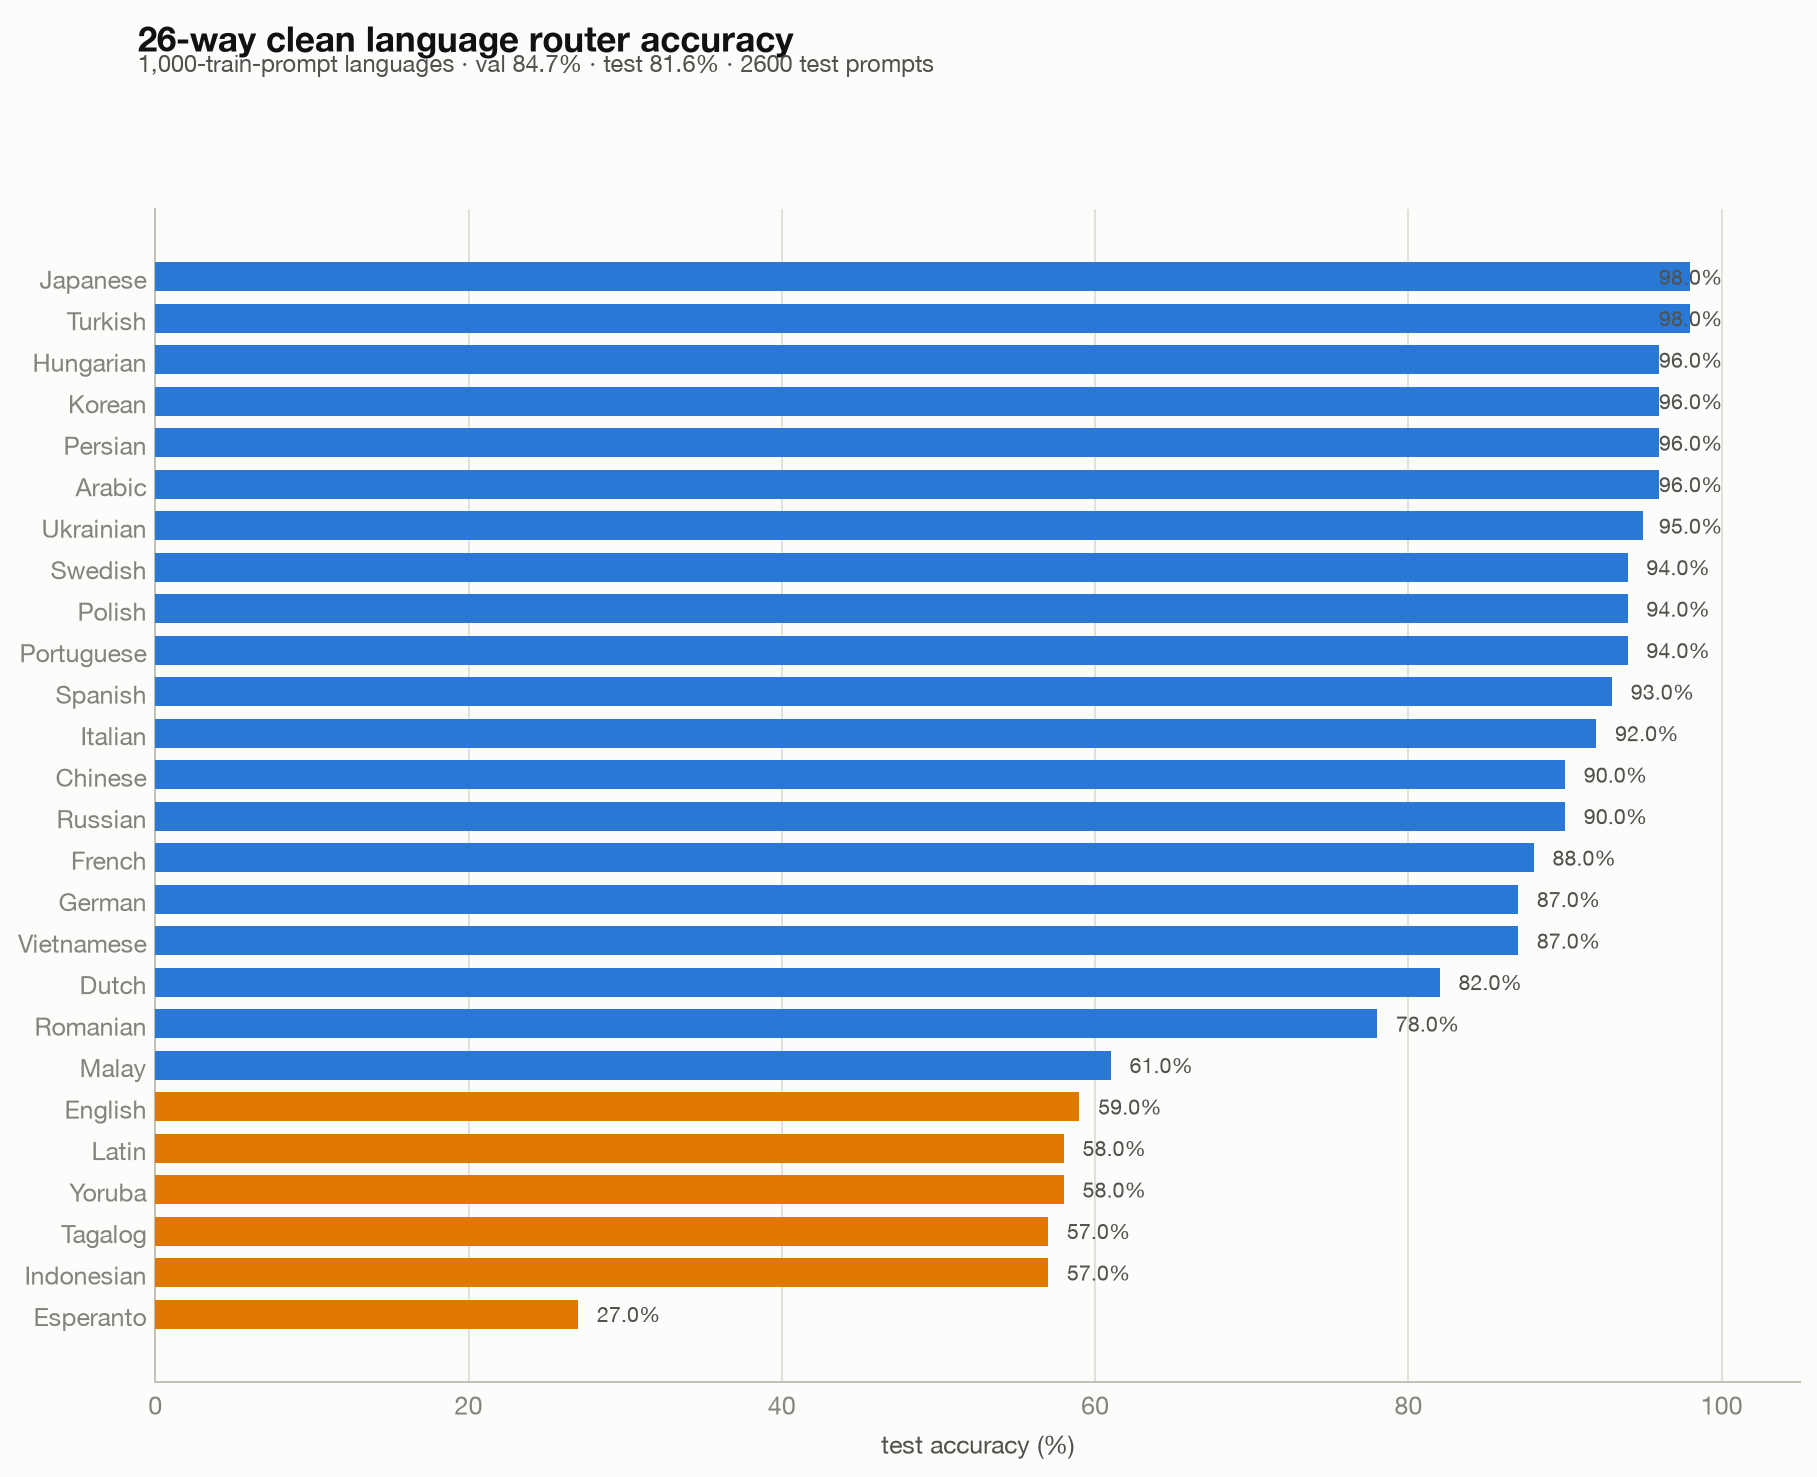
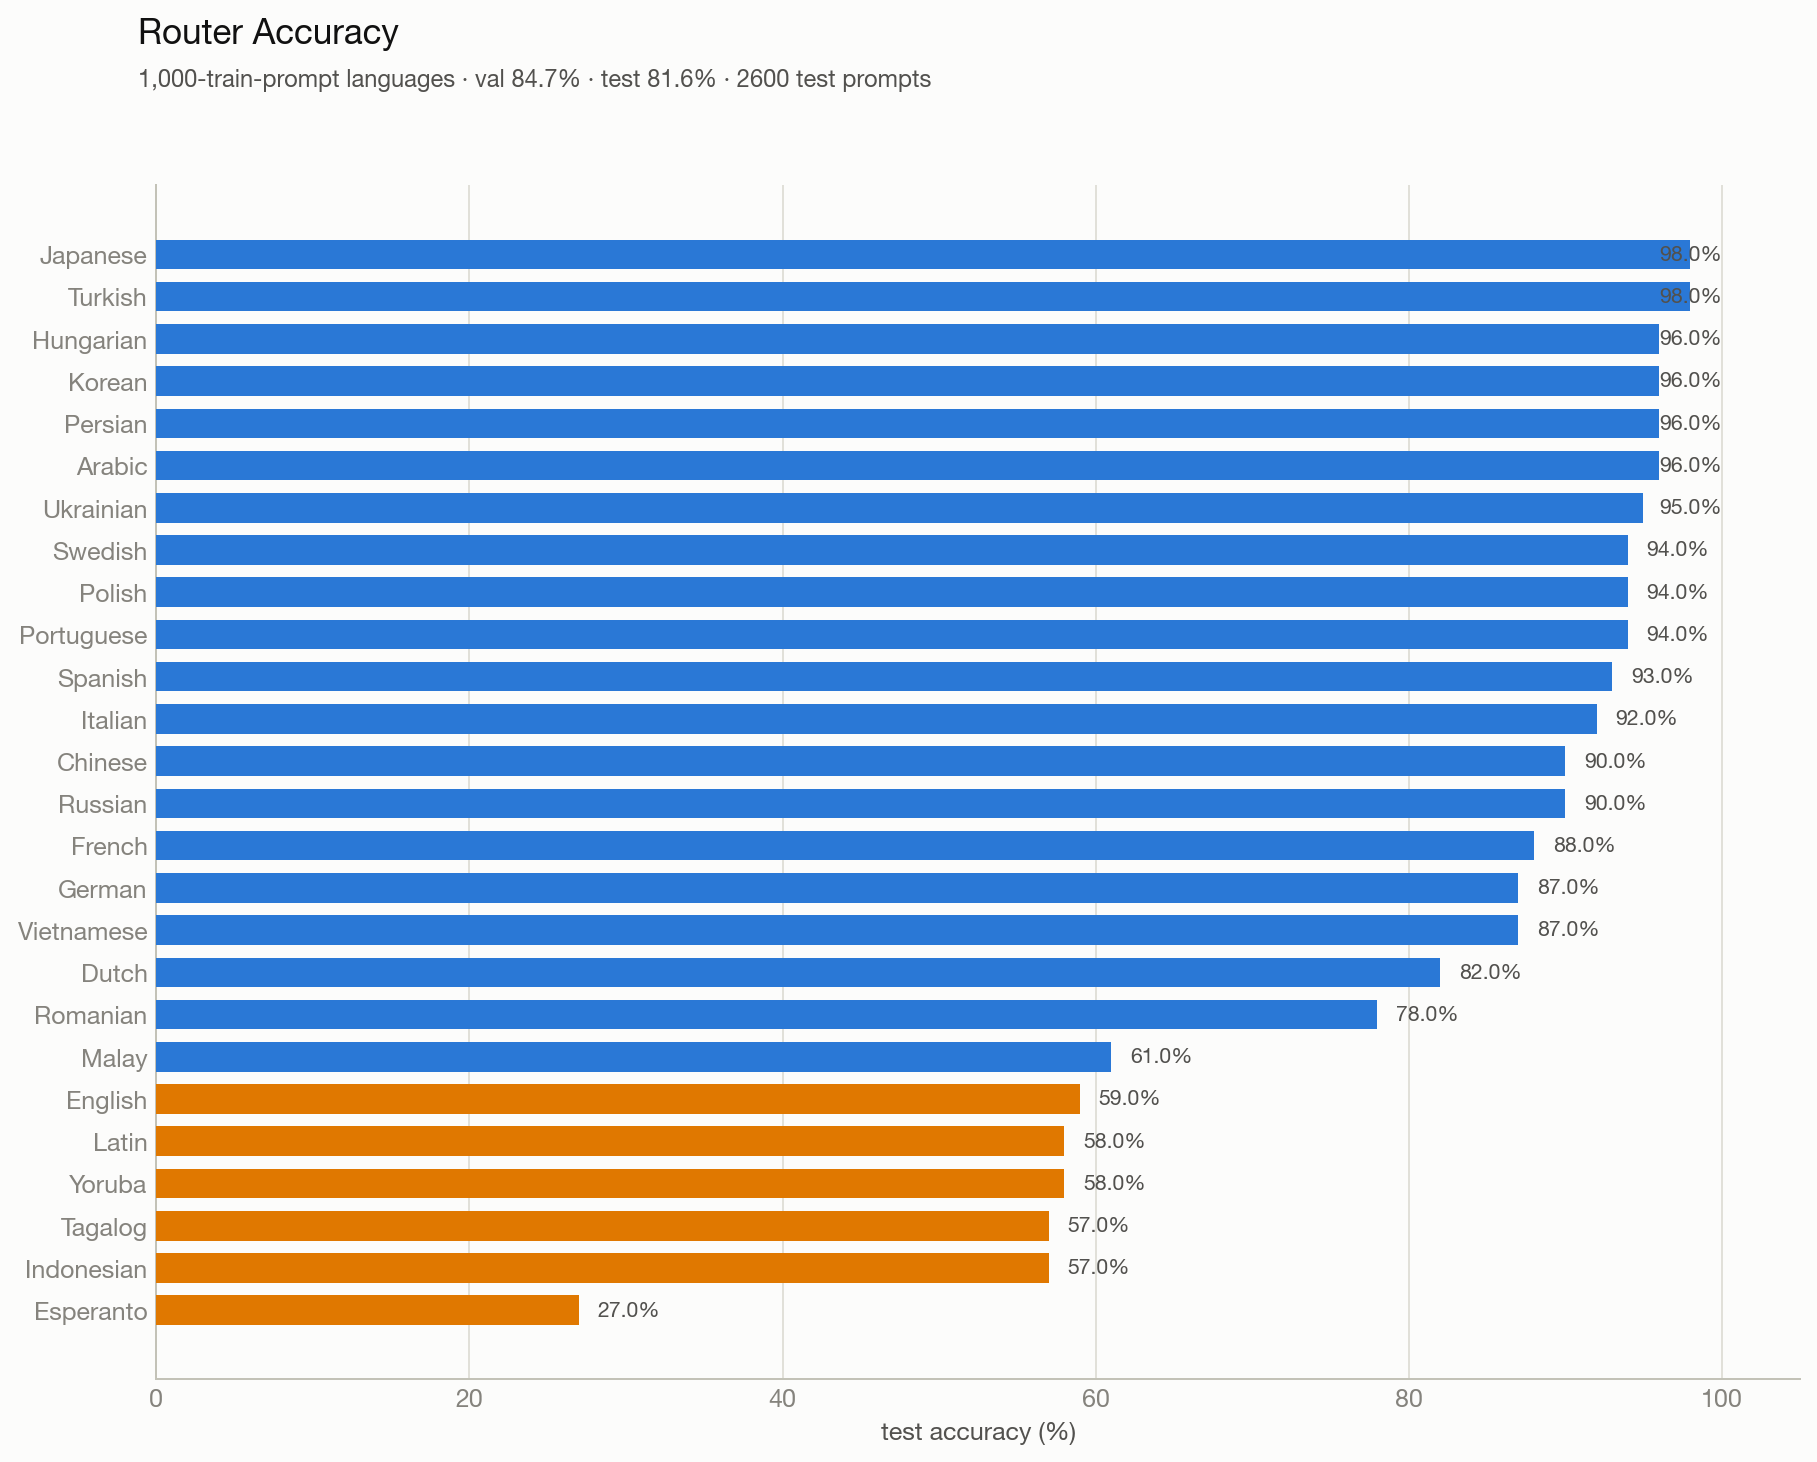
Blog: router training-loss chart + table cleanup
- Add router26 training-loss curve (make_charts_26_training.py) and embed it
  in the router section of Current_Blog.md
- Retitle router accuracy chart to "Router Accuracy" and fix title/subheading
  overlap
- Convert the interference-ladder text block to a real markdown table

Claude-Session: https://claude.ai/code/session_01VCwBzttD3udW16AU8kEotT

diff --git a/router/make_charts_26_training.py b/router/make_charts_26_training.py
@@ -1,0 +1,76 @@
+#!/usr/bin/env python3
+"""Training curve (loss + val accuracy) for the clean 26-language router run."""
+from __future__ import annotations
+
+import json
+from pathlib import Path
+
+import matplotlib
+matplotlib.use("Agg")
+import matplotlib.pyplot as plt
+
+HERE = Path(__file__).resolve().parent
+RESULTS = HERE / "results26"
+CHARTS = RESULTS / "charts"
+
+SURF = "#fcfcfb"
+INK = "#111111"
+INK2 = "#52514e"
+MUTED = "#85837d"
+GRID = "#e1e0d9"
+AXIS = "#c3c2b7"
+BLUE = "#2a78d6"
+ORANGE = "#e07800"
+
+
+plt.rcParams.update({
+    "font.family": "sans-serif",
+    "font.sans-serif": ["Helvetica Neue", "Helvetica", "Arial", "DejaVu Sans"],
+    "figure.facecolor": SURF,
+    "savefig.facecolor": SURF,
+    "axes.facecolor": SURF,
+})
+
+
+def main() -> None:
+    d = json.loads((RESULTS / "router26_confusion.json").read_text())
+    hist = d["history"]
+    epochs = [h["epoch"] for h in hist]
+    loss = [h["train_loss"] for h in hist]
+
+    fig, ax_loss = plt.subplots(figsize=(9.4, 5.4), dpi=180)
+
+    # train loss (orange)
+    ax_loss.plot(epochs, loss, color=ORANGE, lw=2.2, marker="o", ms=4,
+                 zorder=3, label="train loss")
+    ax_loss.set_xlabel("epoch", color=INK2)
+    ax_loss.set_ylabel("train loss", color=ORANGE)
+    ax_loss.tick_params(axis="y", colors=ORANGE, length=0)
+    ax_loss.set_ylim(0, max(loss) * 1.08)
+
+    ax_loss.grid(axis="both", color=GRID, zorder=0)
+    ax_loss.set_axisbelow(True)
+    ax_loss.tick_params(axis="x", colors=MUTED, length=0)
+    ax_loss.spines["top"].set_visible(False)
+    ax_loss.spines["right"].set_visible(False)
+    for spine in ("left", "bottom"):
+        ax_loss.spines[spine].set_color(AXIS)
+
+    fig.suptitle("26-way language router — training curve",
+                 x=0.09, y=0.985, ha="left", color=INK,
+                 fontsize=14, fontweight="bold")
+    fig.text(0.09, 0.93,
+             f"MLP 20480->512->26 · early-stop on val acc · "
+             f"test {d['test_acc']*100:.1f}% · {d['train_n']:,} train prompts",
+             ha="left", color=INK2, fontsize=9.5)
+
+    fig.tight_layout(rect=[0, 0, 1, 0.9])
+    CHARTS.mkdir(parents=True, exist_ok=True)
+    out = CHARTS / "router26_training.png"
+    fig.savefig(out, dpi=180, bbox_inches="tight")
+    plt.close(fig)
+    print(f"chart -> {out}")
+
+
+if __name__ == "__main__":
+    main()

diff --git a/router/make_charts_26.py b/router/make_charts_26.py
@@ -54,10 +54,10 @@ def main() -> None:
     for yy, v in zip(y, vals):
         ax.text(min(v + 1.2, 96), yy, f"{v:.1f}%", va="center",
                 fontsize=8.5, color=INK2)
-    fig.suptitle("26-way clean language router accuracy",
-                 x=0.08, y=0.995, ha="left", color=INK,
+    fig.suptitle("Router Accuracy",
+                 x=0.08, y=0.985, ha="left", color=INK,
                  fontsize=14, fontweight="bold")
-    fig.text(0.08, 0.958,
+    fig.text(0.08, 0.938,
              f"1,000-train-prompt languages · val {d['val_acc']*100:.1f}% · "
              f"test {d['test_acc']*100:.1f}% · {d['test_n']} test prompts",
              ha="left", color=INK2, fontsize=9.5)

diff --git a/Current_Blog.md b/Current_Blog.md
@@ -102,30 +102,61 @@ We next wanted to make sure that a full fine-tune does not vastly outperform the
 
 We believe this is not showing that full fine-tune is bad or impossible, but rather that tuning all the paramters at once would require a lot more data to not be starved, whilst a limited rank-16 adapter (small % of total parameters) would converge much faster.
 
+# Training a router between LoRA's
+Additionally, we train a tiny router that uses the target-hidden features that DFLash uses anyways. The router is a 2-layer MLP that takes the hidden features (20480) to route between the 26 languages with 10.5M parameters, and since it is so small it is basically negligable cost of compute/time.
 
-# Routing and the Combined LoRA
+![26-way language router training curve — train loss and validation accuracy](router/results26/charts/router26_training.png)
 
-We trained a tiny sequence-level router over the same target-hidden features DFlash consumes. It chooses among language adapters plus a fallback bucket. The router got 100% validation accuracy and 100% test accuracy on the held-out router set. We did this over several of the worst languages.
-
-![][image6]
-
-We then tried all 26 languages as well, and found really good results again.  
+It scores very high at Val 84.69% and Test 81.58%:
 ![26-way WildChat language router per-class accuracy](router/results26/charts/router26_accuracy.png)
 
-(English here contains other stuff as well, like SQL, latin, etc)
+(English here contains other stuff as well, like SQL, Latin, etc, which may be dragging down the score)
 
-This sounds amazing, but we realized that this was a red flag. If the model is able to perfectly separate languages internally, that means, there is no need for specialization (as it can already separate and learn the languages individually, no interference).
 
-We tried an experiment of training a singular combined LoRA over all languages and compared the performance with the own LoRA.  
+
+# Combined LoRA keeps a lot of the gains
+
+Next, we wanted to see if the LoRA specialation was due to each adapter uniquly learning the field, or was just because it was exposed to more specific knowledge. The hint that told us to investigate this was that the hidden states cleanly seperated the different languages well when routing between languages.
+
+We also wondered if combining many languages could improve performance. Some languages come from the same family and carry semantic meaning that is complimentary.
+
+
+We tried an experiment of training a singular "combined LoRA" over all the languages and compared the performance with the own LoRA.
+
 ![Base vs own-language LoRA vs combined LoRA across 26 clean WildChat languages](new/exp1-language/results/charts/base_own_combined_26_mintrain1000.png)
 
-Looking at the net speedup per domain
+Looking at the net speedup per domain []
 
 ![Analytic speedup by language: base vs own vs combined](new/exp1-language/results/charts/speedup_26_mintrain1000.png)
 
-labeled
 
-Combined LoRA disproves specialization \**for this case.\** We believe because language is an easily separable task, it is largely FIRST a matter or more training data for out-of-distribution languages to improve the quality. When this saturates, then, perhaps our specialization will further shine.
+This implies we just need to train on each domain individually and make sure the model learns to cleanly seperate each task in it's hidden states for better drafter performance. Because language is an easily separable task, it is largely FIRST a matter or more training data for out-of-distribution languages to improve the quality. When this saturates, then, perhaps our specialization will further shine.
+
+# Interference gets real in more fine grained domains
+
+In domains in which the model has a hard time cleanly seperating, we experinece the "muddling" of combined experts (more training data does not solve, the small # of params means it muddles between 2 experts, and therfor needs specialization).
+
+We tried cursory experiments (but leave the full experiments up for a follow up blog).
+
+First, we build an interference ladder that shows 10 combined domains vs 20 and 40 comined domains.
+
+| combined adapter | mean gap vs own specialist | 95% CI | gain retained |
+| :---- | ----: | :----: | ----: |
+| 10 domains | −0.21pp | [−0.29, −0.13] | ~74% |
+| 20 domains | −0.27pp | [−0.34, −0.20] | ~70% |
+| 40 domains | −0.28pp | [−0.36, −0.19] | ~67% |
+
+As you can see, as you increase the number of experts, the interference increases and specialists shine further.
+
+
+Second, to prove that languages are easy and low interference, we try other english subdomains (code_python, code_sql, ood_legal, ood_medical, ood_financial, task_math_reasoning, task_summarization)
+
+<image>
+
+The perdomain specialists beat the base 7/7, but the key point to see is that the combined adapater only retains about 20% of the specialist gain.
+
+<image>
+
 
 # Serving Cost
 
